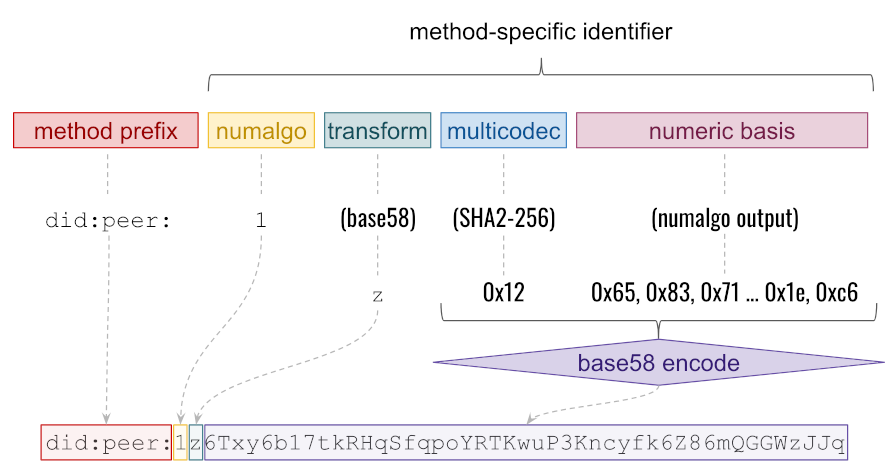
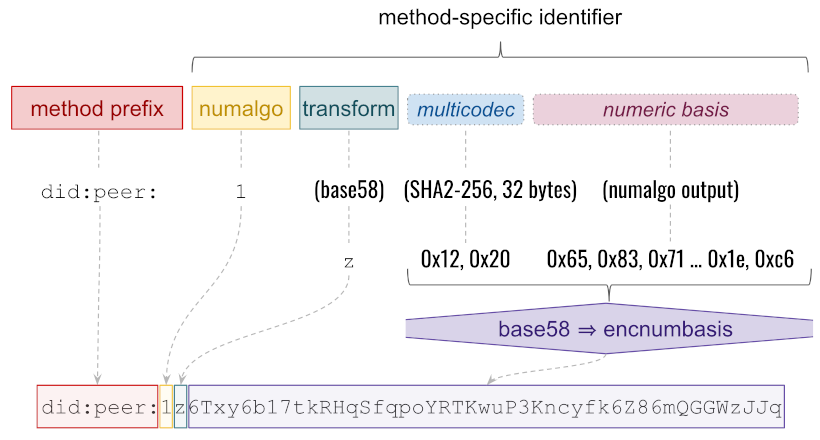
Minor fixes based on feedback from M. Sporny and B. Zundel

diff --git a/core.html b/core.html
@@ -17,13 +17,13 @@
         requirements:</p>
     <ul>
         <li><em>Generation Algorithm</em> &mdash; The DIDs are created using the <a href="#method-specific-identifier">
-            algorithm described below</a>, endowing them with properties vital to trust between peers that is not
-            dependent on a central source of truth.
+            algorithm described below</a>, endowing them with properties vital to trust between peers without
+            incurring a dependency on a central source of truth.
         </li>
         <li>
             <em>Protocol</em> &mdash; The metadata for DIDs (what would be stored in an on-chain DID doc in other methods)
             is communicated and maintained as described in the <a href="#protocols">Protocols</a> section. (This
-            requirement may be mostly irrelevant if support for peer DIDs targets static DID docs only. See
+            requirement may be partly irrelevant if support for peer DIDs targets static DID docs only. See
             <a href="#layers-of-support">Layers of Support</a>.)
         </li>
     </ul>
@@ -37,7 +37,7 @@
 peer-did = "did:peer:" numalgo transform encnumbasis
 numalgo = "1"
 transform = "z"
-encnumbasis = 45*BASE58
+encnumbasis = 46*BASE58BTC
     </pre>
     <p>Peer DIDs use an underlying number with high entropy, called the <dfn>numeric basis</dfn>, as the source of their
         uniqueness. The method for generating this number is described in the <a href="#generation-method">
@@ -55,10 +55,12 @@ encnumbasis = 45*BASE58
         <figcaption>Composition of a peer DID value</figcaption>
     </figure>
 
-    <p>In this version of the spec, the <a>multicodec descriptor</a> is the single byte <code>0x12</code>, which says
-        that what follows is a SHA2-256 hash. The <code>transform</code> is base58, represented by the <a target="_blank"
+    <p>In this version of the spec, the <a>multicodec descriptor</a> is byte pair <code>0x12 0x20</code>, which says
+        that what follows is a SHA2-256 hash, 32 bytes long. (The size is included because, although SHA-256 is known
+        to produce 32-byte digests, some hash algorithms have variable-length output.) The <code>transform</code> is
+        base58, represented by the <a target="_blank"
                 href="https://github.com/multiformats/multibase/blob/master/README.md">multibase prefix</a> <code>z</code>.
-        <code>BASE58</code> in the ABNF means the <a target="_blank"
+        <code>BASE58BTC</code> in the ABNF means the <a target="_blank"
         href="https://en.bitcoin.it/wiki/Base58Check_encoding#Base58_symbol_chart">Bitcoin base58 character inventory</a>;
         for brevity, we omit the expansion--but see the <a href="#matching-regex">matching regex</a> for details.
     </p>
@@ -130,7 +132,7 @@ encnumbasis = 45*BASE58
 did:peer:1z6Txy6b17tkRHqSfqpoYRTKwuP3Kncyfk6Z86mQGGWzJJq
     </pre>
 
-    <p>Peer DIDs consist entirely of printable ASCII characters and in this version of the spec are exactly 56
+    <p>Peer DIDs consist entirely of printable ASCII characters and in this version of the spec are exactly 57
         characters long. They have no whitespace, and the only punctuation they use is the <code>:</code> character. When
         rendering in columns with a constrained width, they could be hyphenated one or more times as needed; the hyphens
         would not be confused with meaningful delimiters, and the final character of the DID would be easy to find.
@@ -143,7 +145,7 @@ did:peer:1z6Txy6b17tkRHqSfqpoYRTKwuP3Kncyfk6Z86mQGGWzJJq
     <p>A convenient regex to match <code>peer</code> DIDs is:</p>
 
     <pre class="example nohighlight" title="Matching regex" id="matching-regex">
-^did:peer:(1)(z)([1-9a-km-zA-HJ-NP-Z]{45})$
+^did:peer:(1)(z)([1-9a-km-zA-HJ-NP-Z]{46})$
     </pre>
 
     <p>A match against this regex places <code>numalgo</code> (the algorithm for choosing a numeric basis) in

diff --git a/intro.html b/intro.html
@@ -17,8 +17,9 @@
         or <a target="cryptoc" href="https://education.district0x.io/general-topics/understanding-ethereum/basics-state-channels/">
         state channels</a> are to on-chain smart contracts&mdash; or what <a target="cryptoc"
         href="https://lightning.network/">Bitcoin's Lightning Network</a> is to on-chain cryptopayments. They move the bulk
-        of interactions off-chain, but offer options to connect back to a chain-based ecosystem as needed. Peer DIDs create the conditions
-        for people, organizations and things to have full control of their end of the digital relationships they are engaged in.
+        of interactions off-chain, but offer options to connect back to a chain-based ecosystem as needed. Peer DIDs
+        create the conditions for people, organizations and things to have full control of their end of the digital
+        relationships they sustain.
     </p>
 
     <p>Some formal terminology may make the application of this insight to DIDs clearer:</p>

diff --git a/did-docs.html b/did-docs.html
@@ -501,7 +501,7 @@
                 that reveals the identity associated with this DID to the reciever. Most agents are likely to have this
                 privilege, but one designed for passive reception only (e.g., on an IoT sensor) might have it removed;
                 doing so would prevent a hacker from co-opting such a key into sending in a trusted way. Messages that
-                are authcrypted by a key that lacks this privilege should be rejected as unauthorized.</dd>
+                are authcrypted by a key that lacks this privilege SHOULD be rejected as unauthorized.</dd>
 
             <dt><dfn>plaintext</dfn></dt>
             <dd>The holder of this privilege can see <a target="aries"

diff --git a/reserved.html b/reserved.html
@@ -56,7 +56,7 @@
 
     <dt>The <dfn>n3 DID</dfn> (did:peer:11-3333...3333) and the <dfn>n4 DID</dfn> (did:peer:11-4444...4444)</dt>
     <dd><p>
-        These two DID are like the <a>pairwise self DID</a> (including a DID doc the resolves to identical content except
+        These two DIDs are like the <a>pairwise self DID</a> (including a DID doc the resolves to identical content except
         for the DID value). They differ in that they are assumed to already be connected to the current context and
         to one another in a 3-wise relationship. That is:
     </p>
